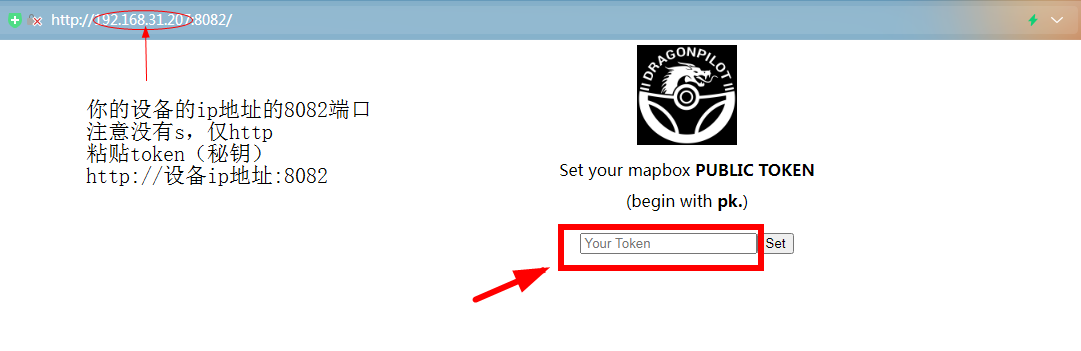
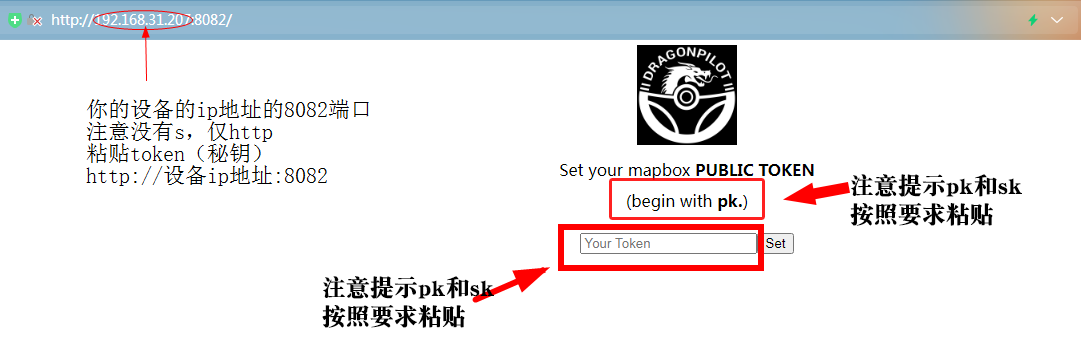
fix mapbox token mistakes

Changed region(s): [[0.5495, 0.4843, 0.9463, 0.6553], [0.2747, 0.7692, 0.4579, 0.9402], [0.5495, 0.4843, 0.7021, 0.5413]]

diff --git a/cn/mapbox_Access_tokens.md b/cn/mapbox_Access_tokens.md
@@ -1,10 +1,12 @@
 # DP导航使用方法（dp0.8.9-4版本功能）
 
+**注意，设备启用导航功能后，接车黑屏，可能是ui有问题，断开设备和车辆连接，重启后，需要卸载重新安装可能解决问题**
+
 #### 1.eon设备里面里面开启功能，并重启设备
 
 #### DP-map选项--Enable Nav.
 
-#### 2.到mapbox网站申请个人秘钥，必须是sk.开头的秘钥，将秘钥粘贴到eon设备秘钥管理页面
+#### 2.到mapbox网站申请公共秘钥（pk.开头）和个人秘钥（sk.开头），将公共秘钥和个人秘钥按照网页提示（注意提示时候pk和sk开头），依次粘贴到eon设备秘钥管理页面
 
 #### 3.eon设备管理秘钥界面地址（pc端输入网址，微信扫码），设备需要开机，需要在网页的同一个wifi下面
 
@@ -35,6 +37,12 @@ https://account.mapbox.com/auth/signin/?route-to=%22https://account.mapbox.com/a
 ![image-20211105193551144](../files/mapbox_Access_tokens/image-20211105193551144.png)
 
 ![image-20211105193251197](../files/mapbox_Access_tokens/image-20211105193251197.png)
+
+##### 第一次按照提示粘贴pk开头公共秘钥
+
+##### 第二次按照提示粘贴sk开头公共秘钥
+
+##### 注意画面里面提示
 
 ![image-20211105192831363](../files/mapbox_Access_tokens/image-20211105192831363.png)
 
